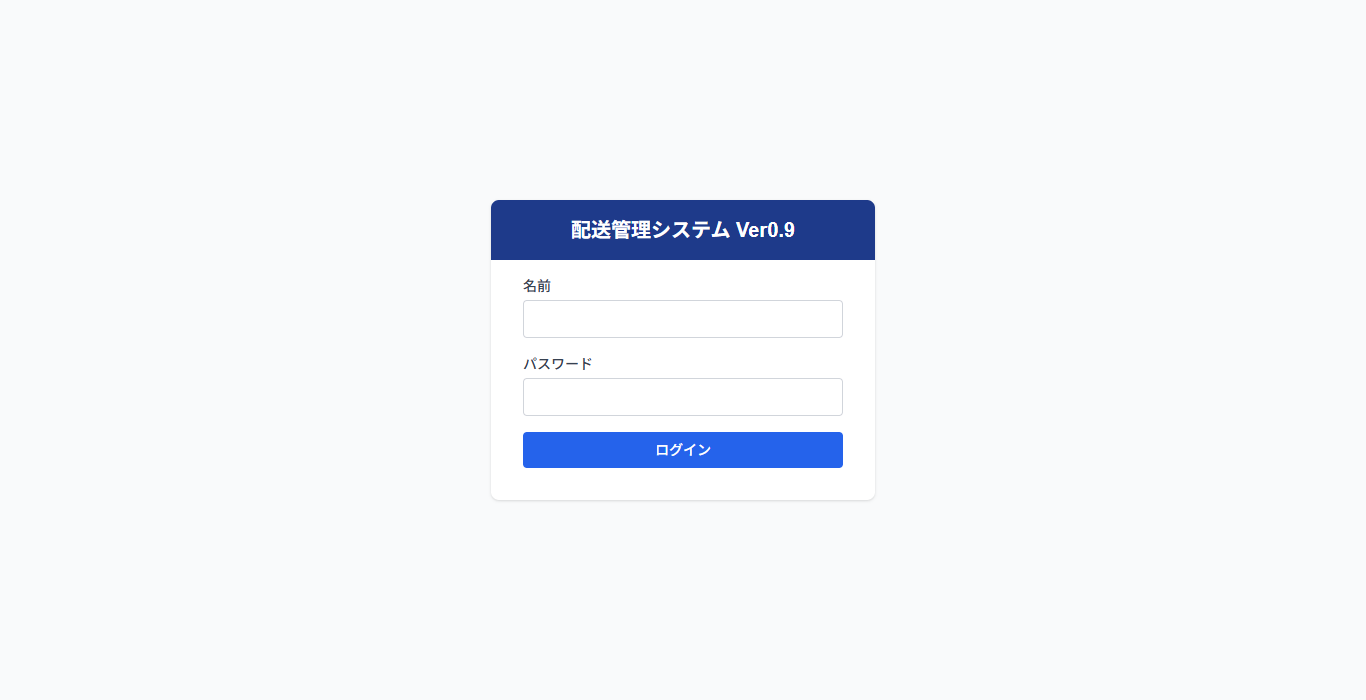
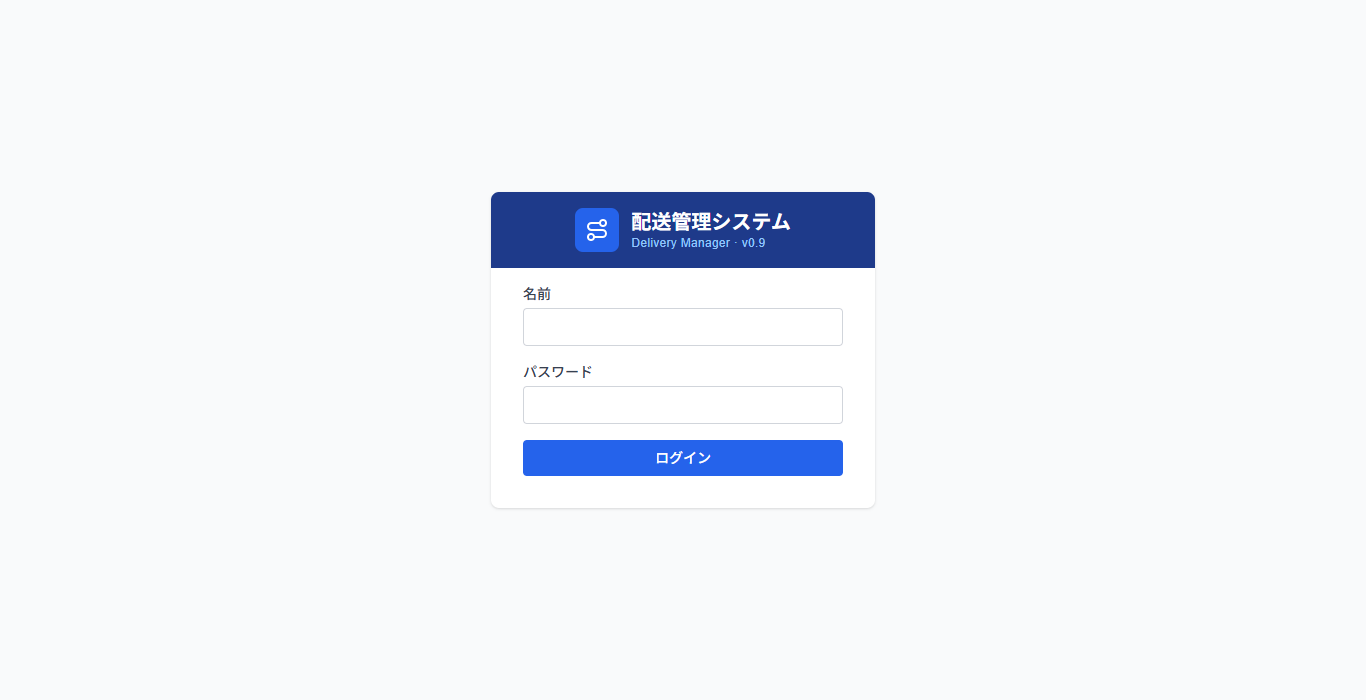
ログイン画面の見出しをサイドバーと同じデザインにそろえる
マニュアルのログイン画面の画像とWord版も更新。

Changed region(s): [[0.3382, 0.27, 0.6457, 0.45], [0.369, 0.6, 0.6149, 0.69], [0.369, 0.51, 0.4305, 0.54]]

diff --git a/src/app/(auth)/login/page.tsx b/src/app/(auth)/login/page.tsx
@@ -3,6 +3,7 @@
 import { useState } from 'react';
 import { signIn } from 'next-auth/react';
 import { useRouter } from 'next/navigation';
+import { Route } from 'lucide-react';
 
 export default function LoginPage() {
   const router = useRouter();
@@ -45,7 +46,16 @@ export default function LoginPage() {
         onSubmit={handleSubmit}
         className="w-full max-w-sm space-y-4 overflow-hidden rounded-lg bg-white p-8 pt-0 shadow"
       >
-        <h1 className="-mx-8 mb-4 bg-blue-900 px-8 py-4 text-xl font-bold text-center text-white">配送管理システム Ver0.9</h1>
+        {/* サイドバー上部（Sidebar.tsx）と同じデザイン */}
+        <div className="-mx-8 mb-4 flex items-center justify-center gap-3 bg-blue-900 px-8 py-4">
+          <span className="flex h-11 w-11 shrink-0 items-center justify-center rounded-lg bg-blue-600 text-white">
+            <Route className="h-6 w-6" />
+          </span>
+          <div>
+            <h1 className="text-xl font-bold leading-tight text-white">配送管理システム</h1>
+            <p className="text-xs tracking-wide text-blue-300">Delivery Manager · v0.9</p>
+          </div>
+        </div>
         {error && (
           <p className="rounded bg-red-50 p-2 text-sm text-red-600">{error}</p>
         )}
